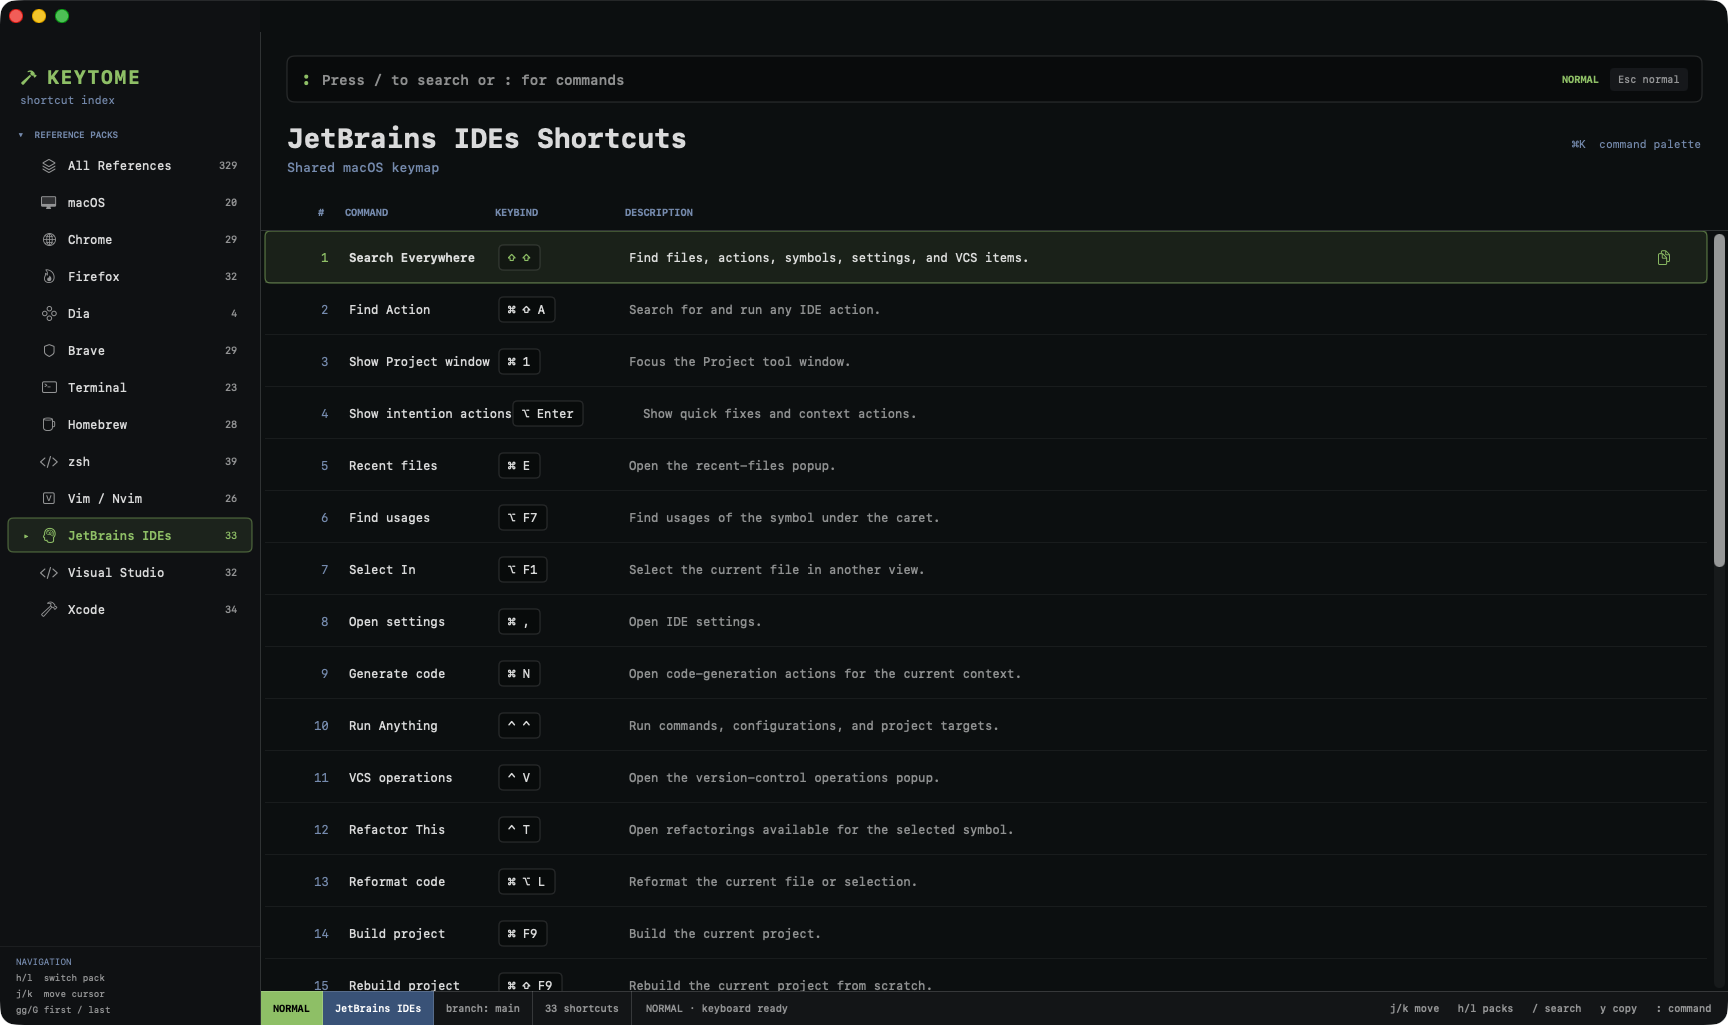
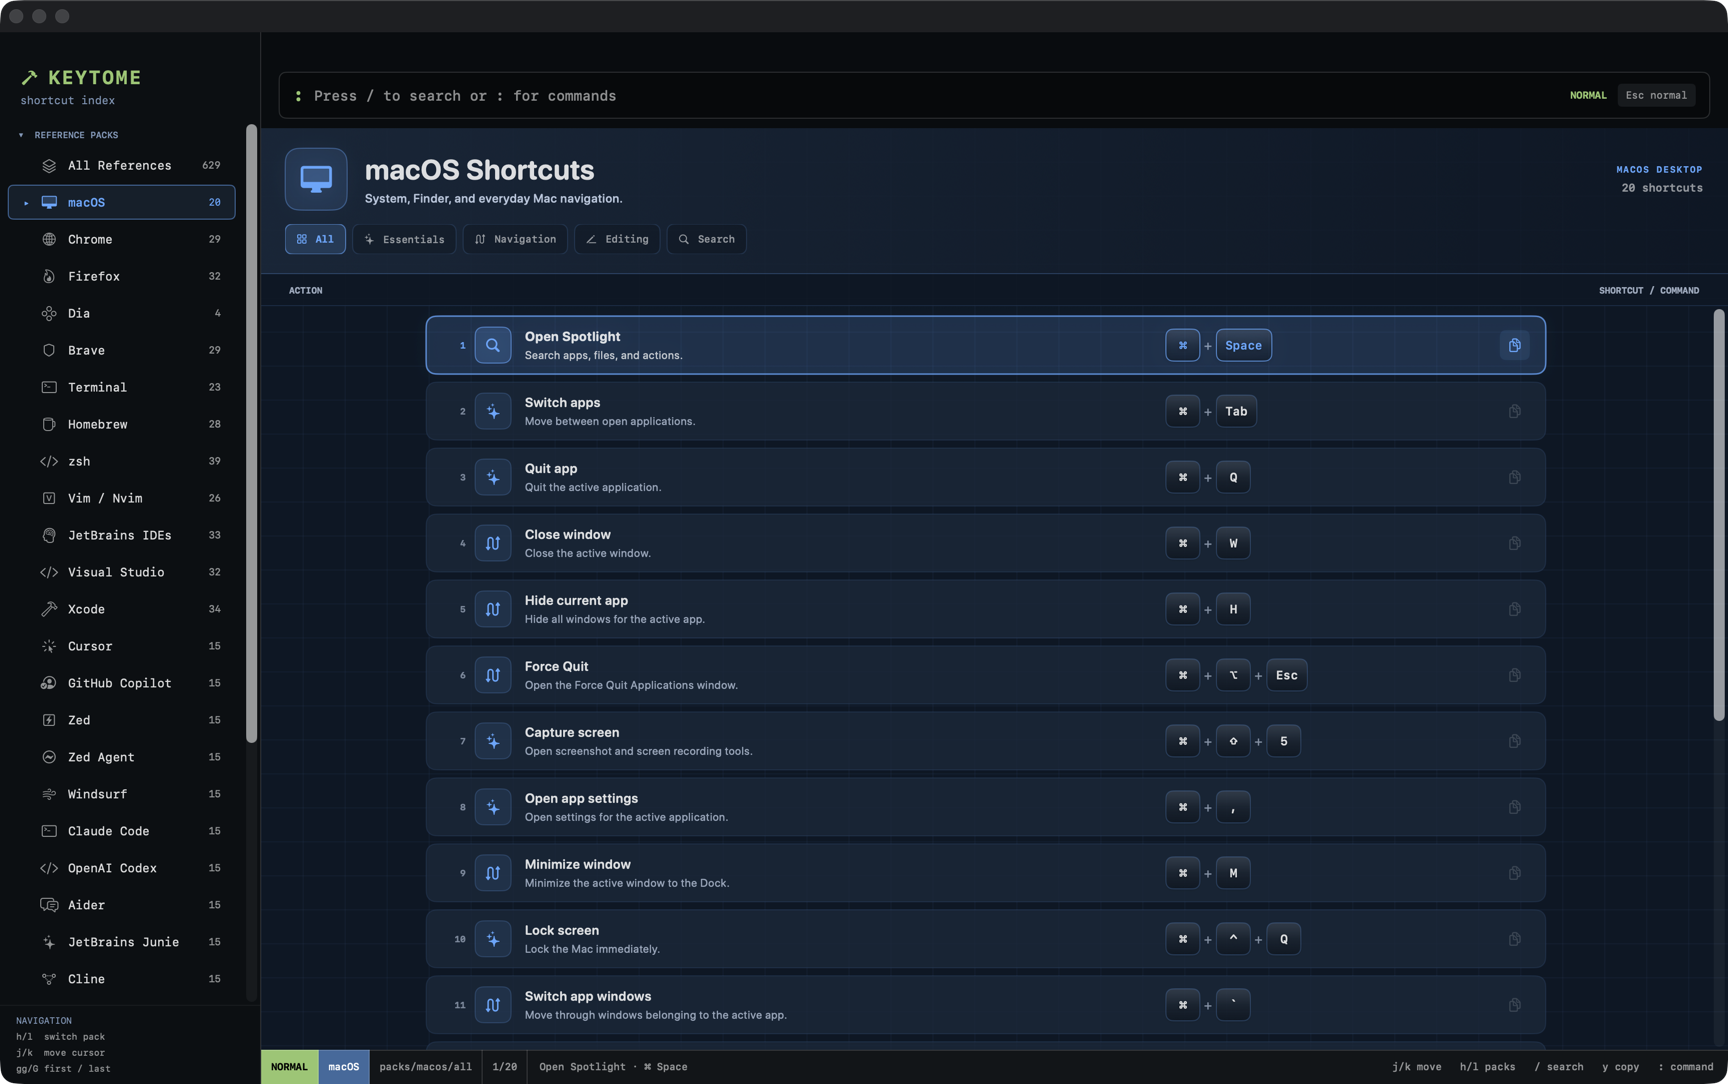
Add responsive showcase gallery

diff --git a/Sources/Keytome/Components/KeycapView.swift b/Sources/Keytome/Components/KeycapView.swift
@@ -4,6 +4,7 @@ struct ShortcutValueView: View {
     let item: ReferenceItem
     let style: PackVisualStyle
     let isSelected: Bool
+    let isCompact: Bool
 
     var body: some View {
         if item.kind == .command {
@@ -17,24 +18,39 @@ struct ShortcutValueView: View {
                 .background(Color.black.opacity(0.34), in: RoundedRectangle(cornerRadius: 7))
                 .overlay { RoundedRectangle(cornerRadius: 7).stroke(style.accent.opacity(isSelected ? 0.7 : 0.24)) }
         } else {
-            HStack(spacing: 7) {
-                ForEach(Array(ShortcutChord(item.value).strokes.enumerated()), id: \.offset) { strokeIndex, stroke in
-                    if strokeIndex > 0 {
-                        Image(systemName: "chevron.right")
-                            .font(.system(size: 8, weight: .bold))
-                            .foregroundStyle(style.secondary.opacity(0.6))
+            if isCompact, chord.strokes.count > 1 {
+                VStack(alignment: .leading, spacing: 6) {
+                    ForEach(Array(chord.strokes.enumerated()), id: \.offset) { index, stroke in
+                        strokeView(stroke, sequenceIndex: index)
                     }
-                    HStack(spacing: 4) {
-                        ForEach(Array(stroke.keys.enumerated()), id: \.offset) { index, key in
-                            if index > 0 {
-                                Text("+").foregroundStyle(style.secondary.opacity(0.55))
-                            }
-                            KeycapView(key: key, style: style, isSelected: isSelected)
-                        }
+                }
+            } else {
+                HStack(spacing: 7) {
+                    ForEach(Array(chord.strokes.enumerated()), id: \.offset) { index, stroke in
+                        strokeView(stroke, sequenceIndex: index)
                     }
                 }
             }
         }
+    }
+
+    private var chord: ShortcutChord { ShortcutChord(item.value) }
+
+    private func strokeView(_ stroke: ShortcutChord.Stroke, sequenceIndex: Int) -> some View {
+        HStack(spacing: 4) {
+            if sequenceIndex > 0 {
+                Image(systemName: "chevron.right")
+                    .font(.system(size: 8, weight: .bold))
+                    .foregroundStyle(style.secondary.opacity(0.6))
+            }
+            ForEach(Array(stroke.keys.enumerated()), id: \.offset) { index, key in
+                if index > 0 {
+                    Text("+").foregroundStyle(style.secondary.opacity(0.55))
+                }
+                KeycapView(key: key, style: style, isSelected: isSelected, isCompact: isCompact)
+            }
+        }
+        .fixedSize(horizontal: true, vertical: false)
     }
 }
 
@@ -42,13 +58,14 @@ private struct KeycapView: View {
     let key: String
     let style: PackVisualStyle
     let isSelected: Bool
+    let isCompact: Bool
 
     var body: some View {
         Text(key)
             .font(.system(size: 12, weight: .semibold, design: .monospaced))
             .foregroundStyle(isSelected ? style.accent : .primary)
-            .padding(.horizontal, key.count > 2 ? 9 : 8)
-            .frame(minWidth: 34, minHeight: 32)
+            .padding(.horizontal, isCompact ? 7 : (key.count > 2 ? 9 : 8))
+            .frame(minWidth: isCompact ? 30 : 34, minHeight: isCompact ? 29 : 32)
             .background(
                 LinearGradient(
                     colors: [Color.white.opacity(0.11), Color.black.opacity(0.28)],

diff --git a/Sources/Keytome/Views/ReferenceListView.swift b/Sources/Keytome/Views/ReferenceListView.swift
@@ -12,27 +12,29 @@ struct ReferenceListView: View {
     }
 
     var body: some View {
-        ScrollViewReader { proxy in
-            ZStack {
-                PackDesignBackground(style: style)
+        GeometryReader { geometry in
+            ScrollViewReader { proxy in
+                ZStack {
+                    PackDesignBackground(style: style)
 
-                VStack(spacing: 0) {
-                    PackHeaderView(session: session, style: style)
-                    tableHeader
-                    content
+                    VStack(spacing: 0) {
+                        PackHeaderView(session: session, style: style)
+                        tableHeader
+                        content(isCompact: PackLayoutMetrics.isCompact(detailWidth: geometry.size.width))
+                    }
                 }
-            }
-            .onChange(of: session.selectedItemID) { _, selectedID in
-                guard let selectedID else { return }
-                withAnimation(reduceMotion ? nil : .easeOut(duration: 0.12)) {
-                    proxy.scrollTo(selectedID, anchor: .center)
+                .onChange(of: session.selectedItemID) { _, selectedID in
+                    guard let selectedID else { return }
+                    withAnimation(reduceMotion ? nil : .easeOut(duration: 0.12)) {
+                        proxy.scrollTo(selectedID, anchor: .center)
+                    }
                 }
             }
         }
     }
 
     @ViewBuilder
-    private var content: some View {
+    private func content(isCompact: Bool) -> some View {
         if contentState == .loading {
             LoadingPackView(style: style)
         } else if session.visibleItems.isEmpty {
@@ -50,6 +52,7 @@ struct ReferenceListView: View {
                             item: item,
                             lineNumber: index + 1,
                             isSelected: session.selectedItemID == item.id,
+                            isCompact: isCompact,
                             style: style,
                             copyItem: { copyItem(item) }
                         )

diff --git a/Sources/Keytome/Components/ReferenceRow.swift b/Sources/Keytome/Components/ReferenceRow.swift
@@ -4,15 +4,19 @@ struct ReferenceRow: View {
     let item: ReferenceItem
     let lineNumber: Int
     let isSelected: Bool
+    let isCompact: Bool
     let style: PackVisualStyle
     let copyItem: () -> Void
 
     @State private var isHovering = false
 
     var body: some View {
-        ViewThatFits(in: .horizontal) {
-            regularRow
-            compactRow
+        Group {
+            if isCompact {
+                compactRow
+            } else {
+                regularRow
+            }
         }
         .padding(.horizontal, 16)
         .padding(.vertical, 11)
@@ -32,7 +36,7 @@ struct ReferenceRow: View {
         HStack(spacing: 14) {
             lineAndIcon
             titleAndDescription.frame(minWidth: 180, maxWidth: .infinity, alignment: .leading)
-            ShortcutValueView(item: item, style: style, isSelected: isSelected)
+            ShortcutValueView(item: item, style: style, isSelected: isSelected, isCompact: false)
                 .frame(minWidth: 150, idealWidth: 230, maxWidth: 320, alignment: .leading)
             copyButton
         }
@@ -46,7 +50,7 @@ struct ReferenceRow: View {
                 Spacer(minLength: 4)
                 copyButton
             }
-            ShortcutValueView(item: item, style: style, isSelected: isSelected)
+            ShortcutValueView(item: item, style: style, isSelected: isSelected, isCompact: true)
                 .frame(maxWidth: .infinity, alignment: .leading)
         }
     }
@@ -71,7 +75,8 @@ struct ReferenceRow: View {
             HStack(spacing: 7) {
                 Text(item.title)
                     .font(.system(size: 13, weight: isSelected ? .bold : .semibold, design: style.fontDesign))
-                    .lineLimit(1)
+                    .lineLimit(isCompact ? 2 : 1)
+                    .layoutPriority(1)
                 if item.confidence == .common {
                     Text("COMMON")
                         .font(.system(size: 7, weight: .bold, design: .monospaced))

diff --git a/Sources/Keytome/Support/PackLayoutMetrics.swift b/Sources/Keytome/Support/PackLayoutMetrics.swift
@@ -1,0 +1,9 @@
+import CoreGraphics
+
+enum PackLayoutMetrics {
+    static let compactDetailWidth: CGFloat = 700
+
+    static func isCompact(detailWidth: CGFloat) -> Bool {
+        detailWidth < compactDetailWidth
+    }
+}

diff --git a/Tests/KeytomeTests/ReferenceSearchTests.swift b/Tests/KeytomeTests/ReferenceSearchTests.swift
@@ -224,4 +224,11 @@ struct ReferenceSearchTests {
             #expect(!ReferenceGroup.available(in: packItems).isEmpty)
         }
     }
+
+    @Test func compactLayoutUsesStableDetailPaneBreakpoint() {
+        #expect(PackLayoutMetrics.isCompact(detailWidth: 500))
+        #expect(PackLayoutMetrics.isCompact(detailWidth: 699))
+        #expect(!PackLayoutMetrics.isCompact(detailWidth: 700))
+        #expect(!PackLayoutMetrics.isCompact(detailWidth: 1_200))
+    }
 }

diff --git a/README.md b/README.md
@@ -20,9 +20,22 @@
   <a href="https://github.com/Saba-Burduli/keytome-macos/releases/download/v1.1.0/Keytome-1.1.0.dmg"><strong>Download Keytome for macOS</strong></a>
 </p>
 
-![Keytome main window](docs/keytome-main.png)
+![Keytome pack showcase](docs/keytome-showcase.png)
 
 Keytome keeps frequently used shortcuts and commands in one keyboard-driven native app. It works entirely offline, requires no account, and includes no analytics, backend, updater, or network dependency.
+
+## One interface, distinct pack identities
+
+Every pack keeps the same fast keyboard workflow while adapting its palette, typography, grouping, keycaps, and background details to the tool it documents.
+
+![Keytome macOS shortcuts](docs/keytome-main.png)
+
+<p align="center">
+  <img src="docs/showcase/keytome-codex-app.png" width="49%" alt="Keytome Codex App shortcuts">
+  <img src="docs/showcase/keytome-terminal.png" width="49%" alt="Keytome Terminal shortcuts">
+</p>
+
+The layout remains usable from compact windows through full-screen and ultrawide workspaces. The NVim-inspired statusline keeps mode, pack, selection, search state, and navigation hints visible.
 
 ## Install
 